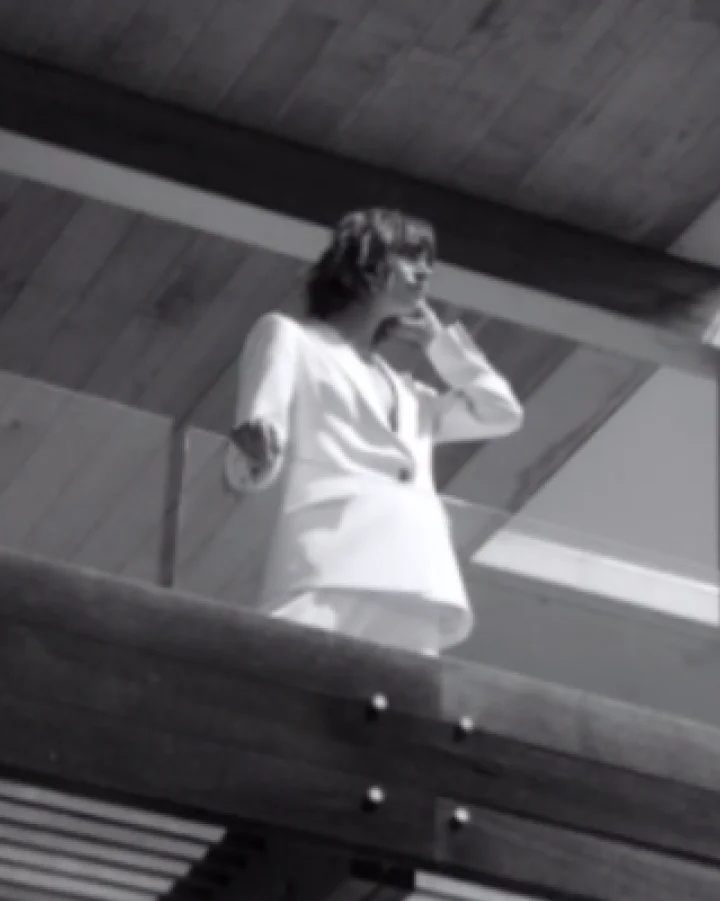
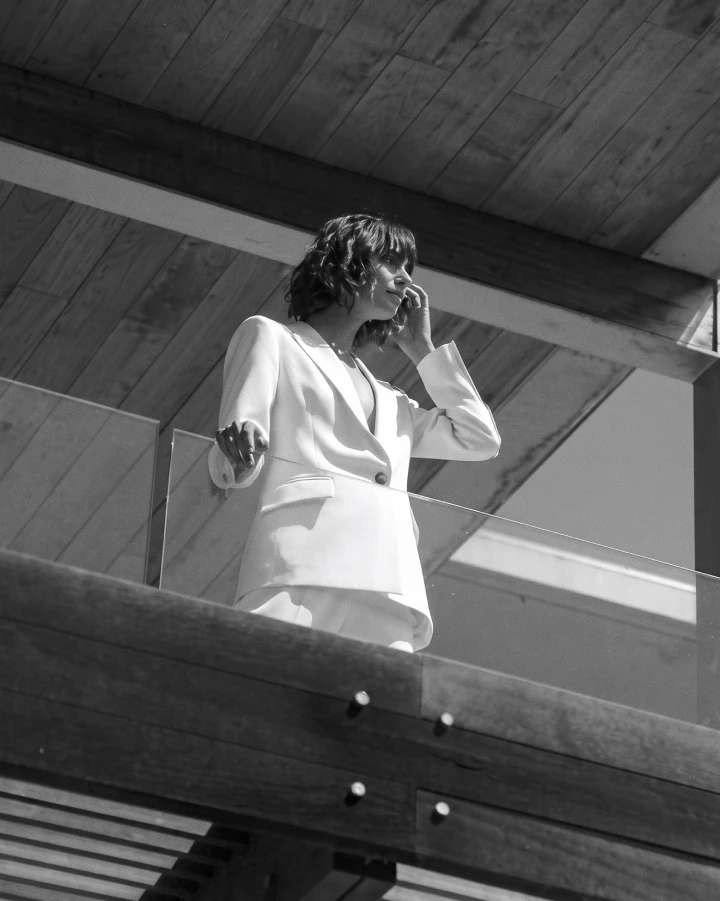
feat(bfj): balcony image (slot 11 desktop) replaced with the real photo source — BUC_WEB_11 delivery, sharpness fixed (CLIENT-ASKS #6 desktop resolved; 720w caveat + mobile crop still pending)

diff --git a/docs/CLIENT-ASKS.md b/docs/CLIENT-ASKS.md
@@ -80,13 +80,19 @@ banners with a mix) — muted-loop clips ship smaller without one. This is
 guidance for exports in flight and future ones; no re-delivery needed for
 files that already look right.
 
-## 6. BFJ — original of the balcony image (bfj-11) via Diego (2026-07-14)
+## ~~6. BFJ — original of the balcony image (bfj-11)~~ DESKTOP RESOLVED 2026-08-05
 
 Vitor: "BFJ mobile ta sem qualidade essa imagem, é o Diego que tem [o
 original]". Confirmed: both variants (720×901 desktop, 440×523 mobile) come
 from the same soft master — it reads like a video frame-grab; no better copy
 exists in any delivery. **Ask:** the original still (≥1440w), and we swap it
 in with no config change.
+
+**Update 2026-08-05:** `BUC_WEB_11.png` delivered and swapped in (desktop).
+It's the real photo source — sharpness fixed — but at 720×901, not the
+≥1440w asked; retina/large screens still upscale. Mobile (440×523) not
+re-delivered — its crop keeps the old soft file. Residual ask (low
+priority): the ≥1440w export + a mobile crop.
 
 ## 7. Silent audio tracks in 12 exports (2026-07-15, FYI)
 
